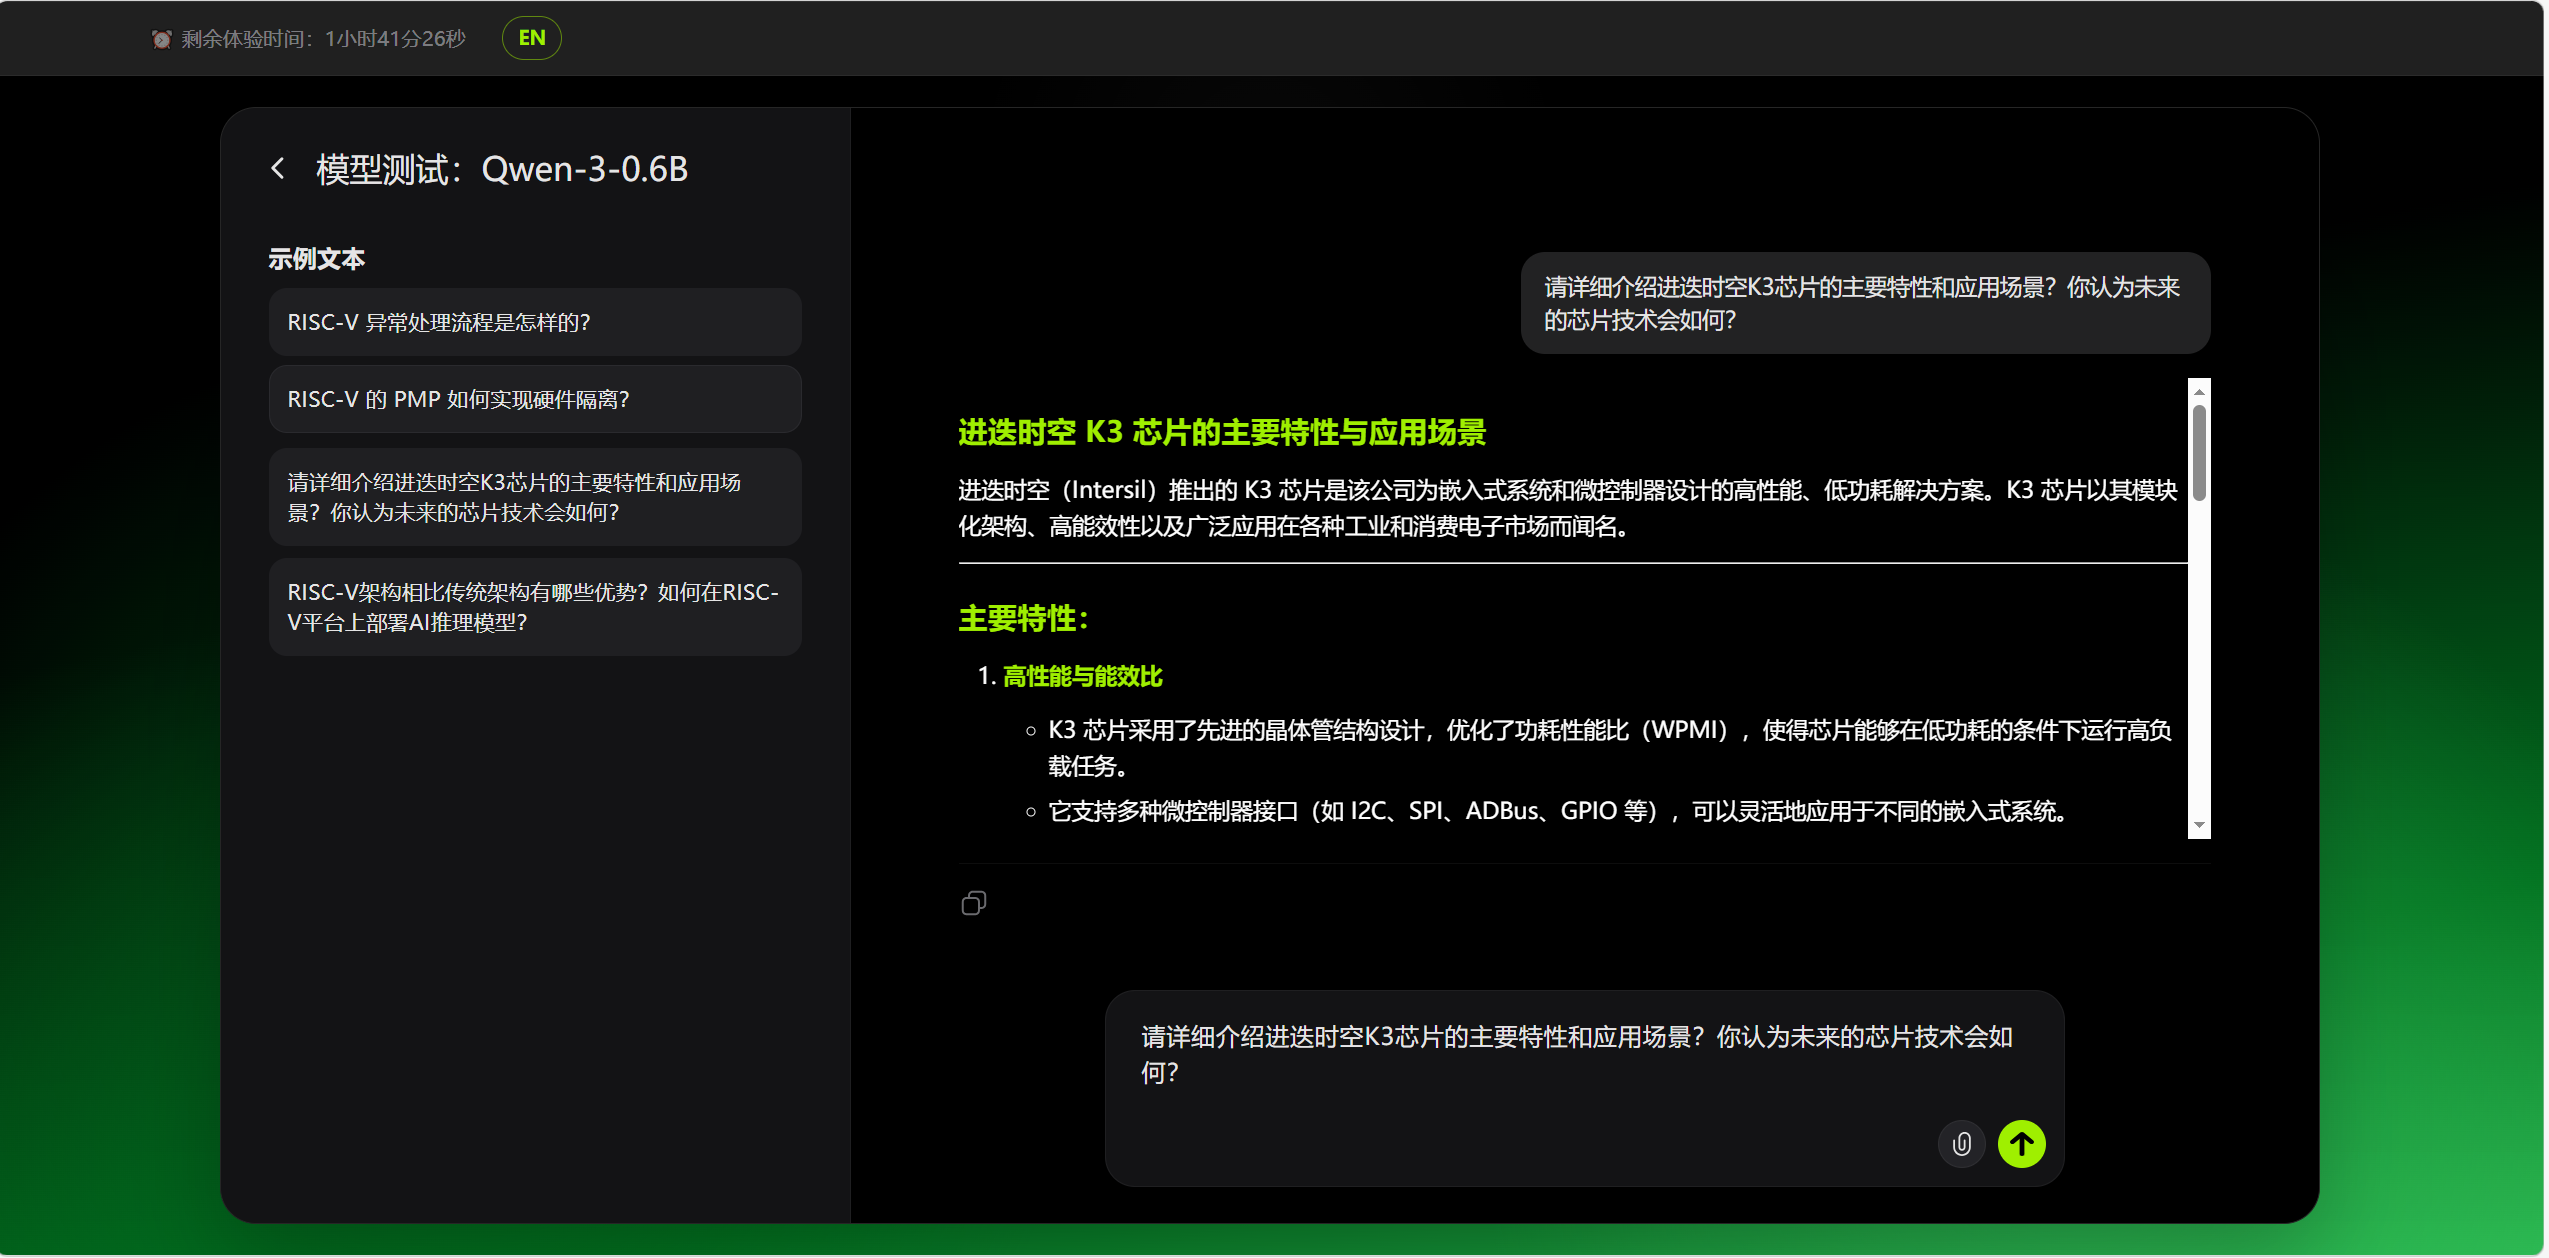
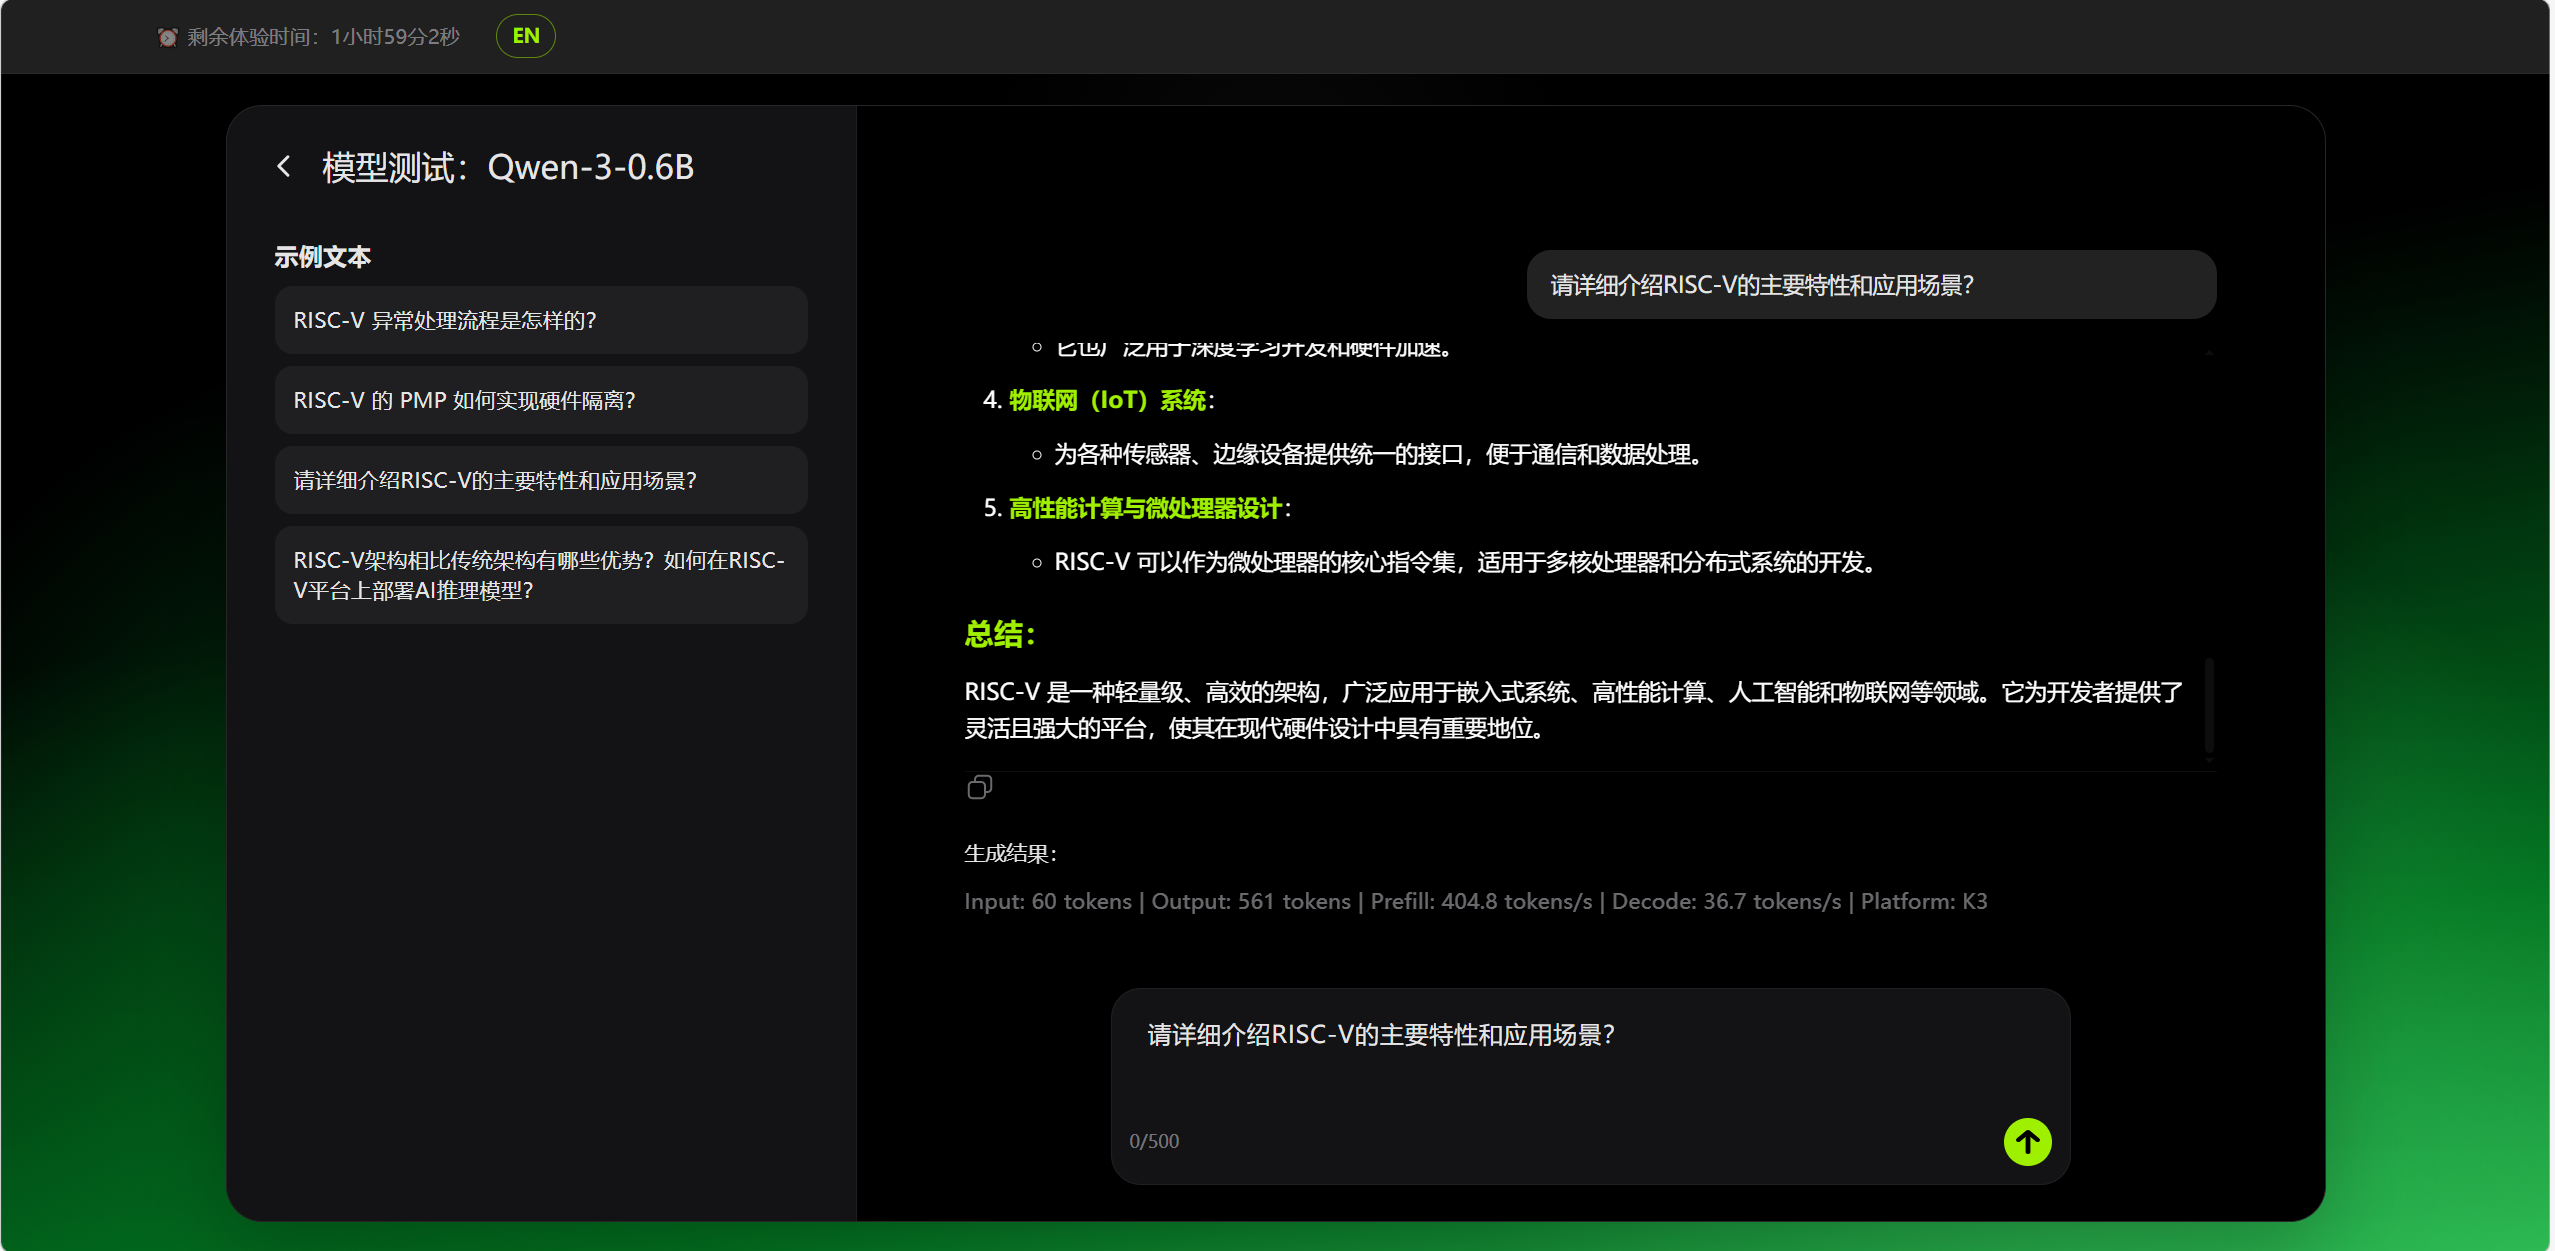
Update SpacemiT AI Lab doc

diff --git a/zh/solutions/aicomputer_solution/ailab.md b/zh/solutions/aicomputer_solution/ailab.md
@@ -74,7 +74,7 @@ sudo apt update
 sudo apt install spacemit-ailab spacemit-ai-gateway
 ```
 
-安装完成后会自动配置 systemd 服务并创建桌面快捷方式。
+安装完成后会自动配置 systemd 服务。
 
 ### 验证安装
 
@@ -265,7 +265,7 @@ curl -s localhost:18790/healthz
 
 应用启动后自动开启局域网分享：
 
-1. 查看顶部显示的访问地址（如 `http://192.168.0.0:8889`）
+1. 查看顶部显示的访问地址
 2. 同一局域网内的其他设备浏览器访问该地址，无需安装应用
 
 ![局域网分享](../static/ailab-11.png)
@@ -312,7 +312,7 @@ journalctl -u spacemit-ai-gateway -f
 ### 如何卸载应用？
 
 ```bash
-sudo apt remove spacemit-ailab
+sudo apt remove spacemit-ailab spacemit-ai-gateway
 # 同时删除下载的模型（可选）
 rm -rf ~/.cache/models/
 ```